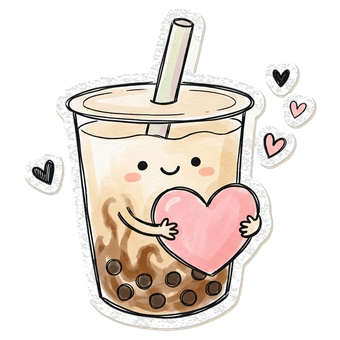
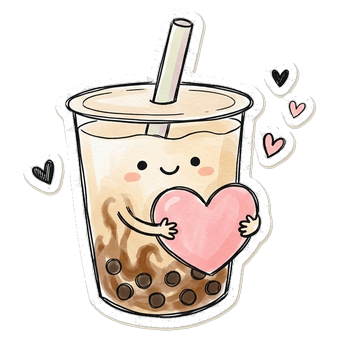
style(ui): polish mascot-hearts die-cut sticker border and HeartsModal sizing

diff --git a/src/components/HeartsModal.tsx b/src/components/HeartsModal.tsx
@@ -67,7 +67,7 @@ export const HeartsModal: React.FC<HeartsModalProps> = ({
             src="/doodles/mascot-hearts.png"
             alt="Ly trà sữa ôm trái tim"
             size={92}
-            className="w-22 h-22 mb-1 animate-wiggle"
+            className="w-[92px] h-[92px] mb-1 animate-wiggle"
           />
 
           <div className="flex items-center justify-center gap-2.5 py-2">
